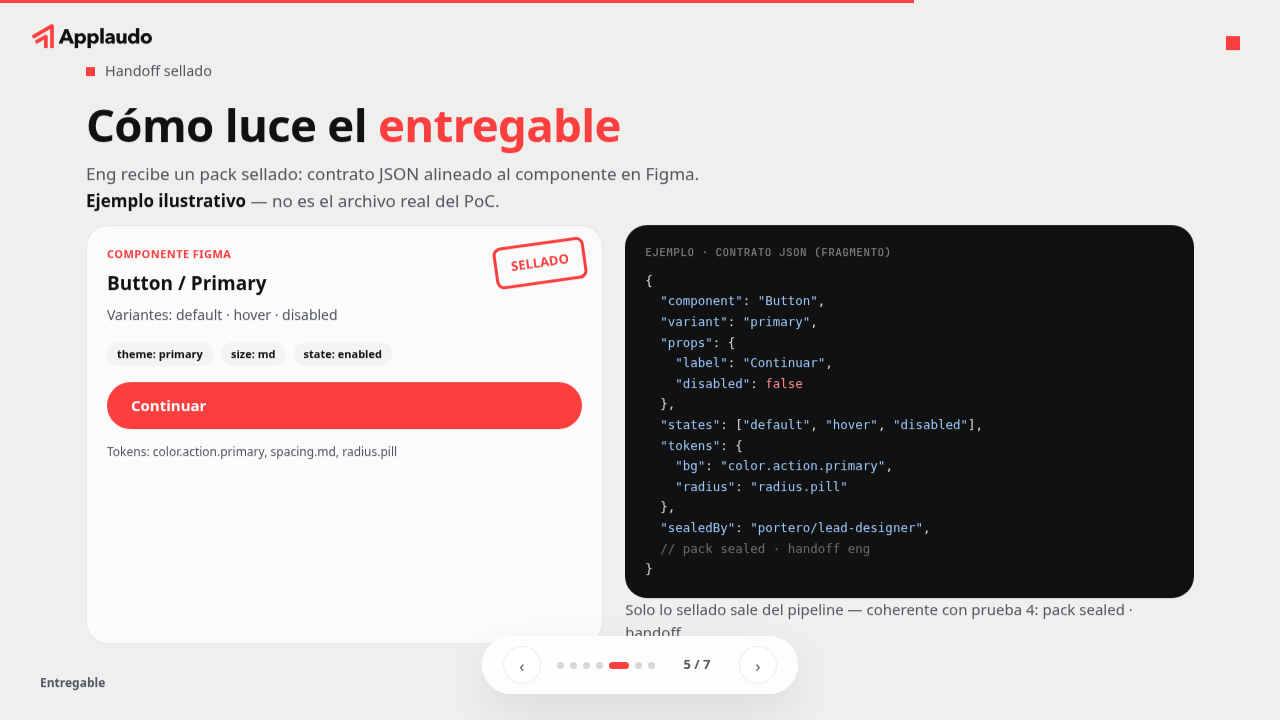
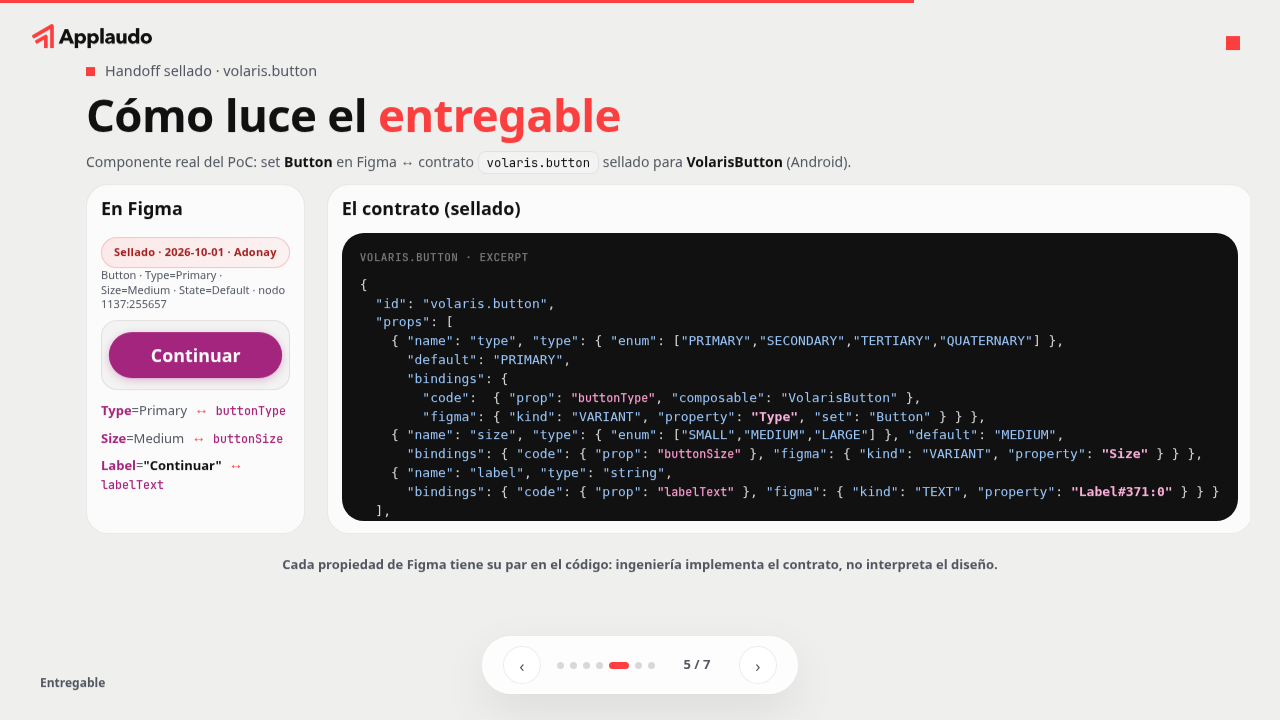
Rebuild slide 5 with real Volaris Button handoff example
Replace illustrative mock with Figma Continuar preview (Primary
Medium), volaris.button JSON excerpt, Figma↔code mapping highlights,
and sealed badge. Responsive layout for 1440×900 and 1280×720.

Changed region(s): [[0.0625, 0.1222, 0.9688, 0.8861], [0.1875, 0.0917, 0.25, 0.1222]]

diff --git a/volaris-poc-flex/index.html b/volaris-poc-flex/index.html
@@ -163,53 +163,61 @@
   <div class="foot">Contratos JSON</div>
 </section>
 
-<!-- 5 · Entregable -->
-<section class="slide slide-spacious deliverable-slide" aria-label="Cómo luce el entregable">
+<!-- 5 · Entregable (Volaris Button · contrato real) -->
+<section class="slide slide-spacious deliverable-slide deliverable-volaris-slide" aria-label="Cómo luce el entregable">
   <div class="logo-sm" data-logo="dark"></div>
   <div class="inner inner-spacious">
-    <div class="slide-head">
-    <p class="eyebrow">Handoff sellado</p>
+    <div class="slide-head deliverable-volaris-head">
+    <p class="eyebrow">Handoff sellado · volaris.button</p>
     <h2 class="hl">Cómo luce el <em>entregable</em></h2>
-    <p class="lead">Eng recibe un pack sellado: contrato JSON alineado al componente en Figma. <strong>Ejemplo ilustrativo</strong> — no es el archivo real del PoC.</p>
+    <p class="lead">Componente real del PoC: set <strong>Button</strong> en Figma ↔ contrato <code class="inline-code">volaris.button</code> sellado para <strong>VolarisButton</strong> (Android).</p>
     </div>
     <div class="slide-body">
 
-    <div class="deliverable">
-      <div class="figma-mock">
-        <span class="stamp">SELLADO</span>
-        <span class="lab">Componente Figma</span>
-        <h3 style="margin-top:6px">Button / Primary</h3>
-        <p style="font-size:.875rem;margin-top:8px">Variantes: default · hover · disabled</p>
-        <div style="margin-top:12px">
-          <span class="chip">theme: primary</span>
-          <span class="chip">size: md</span>
-          <span class="chip">state: enabled</span>
+    <div class="deliverable deliverable-volaris">
+      <div class="deliverable-panel figma-panel">
+        <div class="panel-top">
+          <h3>En Figma</h3>
+          <span class="sealed-badge">Sellado · 2026-10-01 · Adonay</span>
         </div>
-        <span class="ui-btn">Continuar</span>
-        <p style="font-size:.75rem;margin-top:14px;color:var(--gray)">Tokens: color.action.primary, spacing.md, radius.pill</p>
+        <p class="panel-meta">Button · Type=Primary · Size=Medium · State=Default · nodo 1137:255657</p>
+        <div class="volaris-btn-stage">
+          <button type="button" class="volaris-btn-preview" disabled aria-label="Continuar">Continuar</button>
+        </div>
+        <ul class="figma-spec-list">
+          <li><span class="map-hl">Type</span>=Primary <span class="map-conn" aria-hidden="true">↔</span> <span class="map-hl map-code">buttonType</span></li>
+          <li><span class="map-hl">Size</span>=Medium <span class="map-conn" aria-hidden="true">↔</span> <span class="map-hl map-code">buttonSize</span></li>
+          <li><span class="map-hl">Label</span>=<span class="map-val">"Continuar"</span> <span class="map-conn" aria-hidden="true">↔</span> <span class="map-hl map-code">labelText</span></li>
+        </ul>
       </div>
-      <div>
-        <div class="codebox">
-          <div class="label">Ejemplo · contrato JSON (fragmento)</div>
+      <div class="deliverable-panel contract-panel">
+        <h3>El contrato (sellado)</h3>
+        <div class="codebox codebox-contract">
+          <div class="label">volaris.button · excerpt</div>
 <pre>{
-  <span class="st">"component"</span>: <span class="st">"Button"</span>,
-  <span class="st">"variant"</span>: <span class="st">"primary"</span>,
-  <span class="st">"props"</span>: {
-    <span class="st">"label"</span>: <span class="st">"Continuar"</span>,
-    <span class="st">"disabled"</span>: <span class="kw">false</span>
-  },
-  <span class="st">"states"</span>: [<span class="st">"default"</span>, <span class="st">"hover"</span>, <span class="st">"disabled"</span>],
-  <span class="st">"tokens"</span>: {
-    <span class="st">"bg"</span>: <span class="st">"color.action.primary"</span>,
-    <span class="st">"radius"</span>: <span class="st">"radius.pill"</span>
-  },
-  <span class="st">"sealedBy"</span>: <span class="st">"portero/lead-designer"</span>,
-  <span class="cm">// pack sealed · handoff eng</span>
+  <span class="st">"id"</span>: <span class="st">"volaris.button"</span>,
+  <span class="st">"props"</span>: [
+    { <span class="st">"name"</span>: <span class="st">"type"</span>, <span class="st">"type"</span>: { <span class="st">"enum"</span>: [<span class="st">"PRIMARY"</span>,<span class="st">"SECONDARY"</span>,<span class="st">"TERTIARY"</span>,<span class="st">"QUATERNARY"</span>] },
+      <span class="st">"default"</span>: <span class="st">"PRIMARY"</span>,
+      <span class="st">"bindings"</span>: {
+        <span class="st">"code"</span>:  { <span class="st">"prop"</span>: <span class="map-hl map-code">"buttonType"</span>, <span class="st">"composable"</span>: <span class="st">"VolarisButton"</span> },
+        <span class="st">"figma"</span>: { <span class="st">"kind"</span>: <span class="st">"VARIANT"</span>, <span class="st">"property"</span>: <span class="map-hl">"Type"</span>, <span class="st">"set"</span>: <span class="st">"Button"</span> } } },
+    { <span class="st">"name"</span>: <span class="st">"size"</span>, <span class="st">"type"</span>: { <span class="st">"enum"</span>: [<span class="st">"SMALL"</span>,<span class="st">"MEDIUM"</span>,<span class="st">"LARGE"</span>] }, <span class="st">"default"</span>: <span class="st">"MEDIUM"</span>,
+      <span class="st">"bindings"</span>: { <span class="st">"code"</span>: { <span class="st">"prop"</span>: <span class="map-hl map-code">"buttonSize"</span> }, <span class="st">"figma"</span>: { <span class="st">"kind"</span>: <span class="st">"VARIANT"</span>, <span class="st">"property"</span>: <span class="map-hl">"Size"</span> } } },
+    { <span class="st">"name"</span>: <span class="st">"label"</span>, <span class="st">"type"</span>: <span class="st">"string"</span>,
+      <span class="st">"bindings"</span>: { <span class="st">"code"</span>: { <span class="st">"prop"</span>: <span class="map-hl map-code">"labelText"</span> }, <span class="st">"figma"</span>: { <span class="st">"kind"</span>: <span class="st">"TEXT"</span>, <span class="st">"property"</span>: <span class="map-hl">"Label#371:0"</span> } } }
+  ],
+  <span class="st">"anatomy"</span>: { <span class="st">"root"</span>: { <span class="st">"tokens"</span>: {
+    <span class="st">"background-color"</span>: <span class="st">"{action.primary.default}"</span>,
+    <span class="st">"color"</span>: <span class="st">"{content.neutral.inverted}"</span>,
+    <span class="st">"height-medium"</span>: <span class="st">"44"</span> } } },
+  <span class="st">"status"</span>: <span class="st">"sealed"</span>,
+  <span class="st">"sot"</span>: { <span class="st">"sealedAt"</span>: <span class="st">"2026-10-01"</span>, <span class="st">"sealedBy"</span>: <span class="st">"Adonay"</span> }
 }</pre>
         </div>
-        <p class="note">Solo lo sellado sale del pipeline — coherente con prueba 4: pack sealed · handoff.</p>
       </div>
     </div>
+    <p class="note deliverable-takeaway">Cada propiedad de Figma tiene su par en el código: ingeniería implementa el contrato, no interpreta el diseño.</p>
     </div>
   </div>
   <div class="foot">Entregable</div>

diff --git a/assets/css/applaudo-deck.css b/assets/css/applaudo-deck.css
@@ -149,6 +149,33 @@ button{font-family:inherit}
 .deliverable-slide .deliverable{margin-top:0;flex:1;align-items:stretch;min-height:0}
 .deliverable-slide .codebox{max-height:none;flex:1}
 .deliverable-slide .figma-mock{display:flex;flex-direction:column;justify-content:flex-start}
+
+.deliverable-volaris-slide .deliverable-volaris-head .lead{max-width:none;font-size:clamp(.9375rem,1.35vw,1.0625rem)}
+.deliverable-volaris-slide .inline-code{font-family:'SF Mono','Fira Code',Menlo,monospace;font-size:.88em;background:var(--linen);padding:2px 8px;border-radius:8px;border:1px solid var(--line);color:var(--ink)}
+.deliverable-volaris{display:grid;grid-template-columns:1fr 1.12fr;gap:clamp(16px,2vw,22px);align-items:stretch;width:100%}
+.deliverable-panel{border:1px solid var(--line);border-radius:var(--radius-item);padding:clamp(16px,2.2vh,22px) clamp(18px,2.5vw,24px);background:#fff;display:flex;flex-direction:column;min-height:0}
+.deliverable-panel h3{font-size:1.125rem;margin-bottom:6px;color:var(--ink)}
+.panel-top{display:flex;align-items:flex-start;justify-content:space-between;gap:12px;flex-wrap:wrap}
+.sealed-badge{display:inline-flex;align-items:center;padding:6px 12px;border-radius:var(--pill);background:var(--tint);border:1px solid rgba(255,64,64,.25);color:var(--red-dark);font-size:.6875rem;font-weight:700;letter-spacing:.02em;white-space:nowrap}
+.panel-meta{font-size:.75rem;color:var(--gray);margin-bottom:clamp(12px,1.8vh,18px);max-width:none;line-height:1.35}
+.volaris-btn-stage{display:flex;align-items:center;justify-content:center;padding:clamp(18px,3vh,28px) 12px;margin-bottom:clamp(12px,2vh,18px);background:var(--linen);border-radius:16px;border:1px solid var(--line)}
+.volaris-btn-preview{
+  display:inline-flex;align-items:center;justify-content:center;min-height:44px;height:44px;padding:0 40px;
+  background:#A62681;color:#fff;border:none;border-radius:999px;font-size:1.0625rem;font-weight:600;
+  font-family:var(--font);letter-spacing:0;line-height:1;cursor:default;box-shadow:0 2px 8px rgba(166,38,129,.28);
+}
+.figma-spec-list{list-style:none;margin:0;padding:0;display:flex;flex-direction:column;gap:8px}
+.figma-spec-list li{font-size:.9375rem;color:var(--gray);max-width:none;line-height:1.4}
+.map-hl{color:#A62681;font-weight:700}
+.map-hl.map-code{font-family:'SF Mono','Fira Code',Menlo,monospace;font-size:.9em;font-weight:600}
+.map-val{color:var(--ink);font-weight:600}
+.map-conn{color:var(--red);font-weight:700;margin:0 4px;font-size:.875rem}
+.codebox-contract{flex:1;min-height:0;display:flex;flex-direction:column}
+.codebox-contract pre{font-size:clamp(.8125rem,1.05vw,.875rem);line-height:1.55}
+.codebox-contract .map-hl.map-code{color:#ff9fd4}
+.codebox-contract .map-hl:not(.map-code){color:#ffb4e0}
+.deliverable-takeaway{margin-top:0!important;font-size:clamp(.875rem,1.2vw,.9375rem);font-weight:600;color:var(--ink);text-align:center;max-width:none;flex:none}
+.contract-panel .codebox{margin-top:8px;padding:clamp(14px,2vh,18px) clamp(14px,2vw,18px)}
 .inner h2.hl em{font-style:normal;color:var(--red)}
 .slide:not(.slide-dark)::after{content:'';position:absolute;top:36px;right:40px;width:14px;height:14px;background:var(--red);pointer-events:none}
 
@@ -335,6 +362,10 @@ button{font-family:inherit}
   .foot{bottom:28px}
   .roadmap-combined-slide .adopcion-note{font-size:.75rem;line-height:1.32;margin-top:8px}
   .roadmap-combined-slide .card-soft-green.compact li,.roadmap-combined-slide .card-soft-pink.compact li{font-size:.8125rem}
+  .deliverable-volaris-slide .deliverable-volaris-head .lead{font-size:.875rem}
+  .deliverable-volaris-slide .deliverable-volaris-head h2.hl{font-size:clamp(1.85rem,3.2vw,2.5rem)}
+  .codebox-contract pre{font-size:.8125rem;line-height:1.48}
+  .volaris-btn-preview{transform:scale(1.05)}
 }
 @media (max-height:740px){
   .slide-fit .slide-head h2.hl{font-size:1.45rem}
@@ -361,6 +392,13 @@ button{font-family:inherit}
   .roadmap-combined-slide .adopcion-note{font-size:.7rem;margin-top:6px}
   .roadmap-combined-slide .hero-band.compact{padding:12px 14px}
   .roadmap-combined-slide .hero-band.compact p{font-size:.8125rem}
+  .deliverable-volaris-slide .slide-head .eyebrow{margin-bottom:8px}
+  .deliverable-volaris-slide .panel-meta{font-size:.6875rem;margin-bottom:8px}
+  .deliverable-volaris-slide .deliverable-panel{padding:12px 14px}
+  .deliverable-volaris-slide .volaris-btn-stage{padding:12px 8px;margin-bottom:10px}
+  .deliverable-volaris-slide .figma-spec-list li{font-size:.8125rem}
+  .codebox-contract pre{font-size:13px;line-height:1.45}
+  .deliverable-takeaway{font-size:.8125rem}
   .dos-slide .dos-header{padding-top:48px;padding-bottom:4px}
   .dos-slide .dos-header h2{font-size:.9rem}
 }
